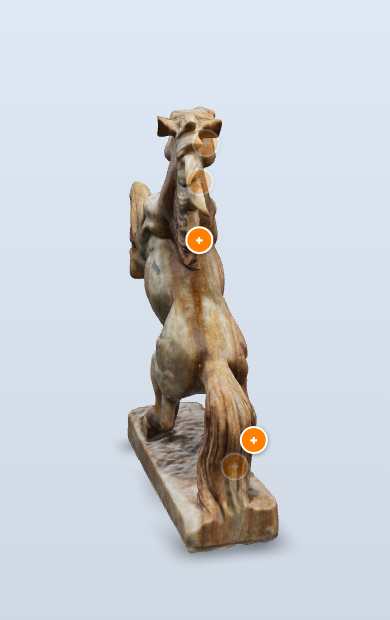
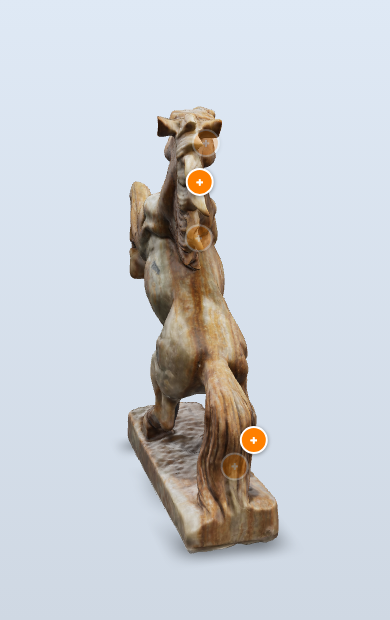
Perbaiki titik info yang tersembunyi agar tidak bisa diketuk, pilih arah normal dan pindahkan titik kaki supaya tidak lagi tampil saat tertutup badan patung, dan betulkan kamera yang tidak ikut pindah saat ganti ke model candi

Changed region(s): [[0.4615, 0.2452, 0.5538, 0.429]]

diff --git a/Module5/Source/ar_app/app.js b/Module5/Source/ar_app/app.js
@@ -93,6 +93,9 @@
     button.dataset.position = hotspot.position.join(" ");
     button.dataset.normal = hotspot.normal.join(" ");
     button.textContent = "+";
+    // ask <model-viewer> to mark this button with data-visible while its normal faces the camera;
+    // without it the button is only dimmed when hidden and can still be tapped (style.css)
+    button.dataset.visibilityAttribute = "visible";
     button.setAttribute("aria-label", hotspot.name_en);
 
     const label = document.createElement("div");
@@ -138,9 +141,14 @@
   modelToggle.addEventListener("click", () => {
     model = model === "horse" ? "temple" : "horse";
     modelToggle.textContent = `Model: ${model}`;
+    // model-viewer puts the camera back to the camera-orbit attribute when a new model loads,
+    // so the new model's camera is set once that load has finished
+    viewer.addEventListener("load", () => {
+      viewer.cameraOrbit = MODELS[model].orbit;
+      viewer.jumpCameraToGoal();
+    }, { once: true });
     viewer.src = MODELS[model].src;
     viewer.alt = MODELS[model].alt;
-    viewer.cameraOrbit = MODELS[model].orbit;
     hideInfo();
     quizScore = { correct: 0, attempts: 0 };
     loadHotspots();

diff --git a/Module5/Source/ar_app/style.css b/Module5/Source/ar_app/style.css
@@ -77,8 +77,9 @@ model-viewer {
   box-shadow: 0 2px 8px rgba(0, 0, 0, 0.25);
 }
 
-/* model-viewer hotspot slots: a small labelled disc, hidden gracefully when
-   occluded (model-viewer toggles the `data-visibility-attribute` target). */
+/* model-viewer hotspot slots: a small labelled disc. model-viewer only toggles
+   `data-visible` on a hotspot that asks for it with data-visibility-attribute="visible"
+   (app.js sets it); it decides from the hotspot's normal alone. */
 .hotspot {
   display: flex;
   align-items: center;
@@ -96,7 +97,8 @@ model-viewer {
   padding: 0;
 }
 
-.hotspot.hidden { display: none; }
+/* turned away from the camera: model-viewer dims it; it must not take taps either */
+.hotspot:not([data-visible]) { pointer-events: none; }
 
 .hotspot:focus { outline: 3px solid #ffd08a; }
 

diff --git a/Module5/Source/ar_app/occlusion.py b/Module5/Source/ar_app/occlusion.py
@@ -66,3 +66,75 @@ def is_visible(point, normal, camera, tris):
     t = np.einsum("ij,ij->i", e2, q) * inv
     hit = ok & (u >= 0) & (v >= 0) & (u + v <= 1) & (t > 1e-6) & (t < dist)
     return not bool(hit.any())
+
+
+# --- choosing better normals ---------------------------------------------------------------
+# <model-viewer> shows a hotspot whenever dot(normal, direction to camera) >= 0. The normal the
+# ray-cast placement gives is the face normal at the hit point, and on a curved part it can lean
+# towards a side from which the point is blocked (the raised foreleg leans towards the tail).
+# The normal only steers visibility, so it may be any direction that makes the dot test agree
+# with the real occlusion as often as possible. It is chosen on TUNE cameras that are disjoint
+# from the cameras the browser test uses (verify_ar_app.py --occlusion: polar 75 and 25 deg,
+# azimuth on multiples of 5 deg), so the browser test stays a fair check.
+
+TARGET = (0.0, 0.3086, 0.0)   # <model-viewer>'s automatic camera target and radius for kuda.glb,
+RADIUS = 1.572                # as reported by getCameraTarget() / getCameraOrbit()
+TUNE_POLAR_DEG = (40.0, 60.0, 80.0, 95.0)
+TUNE_AZIMUTH_DEG = np.arange(2.5, 360.0, 5.0)
+MAX_TILT_DEG = 75.0           # keep the chosen normal within this angle of the surface normal
+
+
+def tune_cameras():
+    return [camera_position(np.radians(t), np.radians(p), RADIUS, TARGET)
+            for p in TUNE_POLAR_DEG for t in TUNE_AZIMUTH_DEG]
+
+
+def _sphere(n=4000):
+    """n nearly even directions on the unit sphere (Fibonacci lattice), deterministic."""
+    i = np.arange(n) + 0.5
+    z = 1 - 2 * i / n
+    r = np.sqrt(1 - z * z)
+    phi = np.pi * (1 + 5 ** 0.5) * i
+    return np.stack([r * np.cos(phi), r * np.sin(phi), z], axis=1)
+
+
+def tune_normal(point, surface_normal, tris, cameras):
+    """The direction whose dot test best matches the real visibility over `cameras`.
+
+    Returns (normal, mismatches before, mismatches after, number of cameras)."""
+    point, surface_normal = np.asarray(point, float), np.asarray(surface_normal, float)
+    truth = np.array([is_visible(point, surface_normal, c, tris) for c in cameras])
+    dirs = np.array([c - point for c in cameras])
+    dirs /= np.linalg.norm(dirs, axis=1, keepdims=True)
+    cand = _sphere()
+    cand = cand[cand @ surface_normal >= np.cos(np.radians(MAX_TILT_DEG))]
+    cand = np.vstack([surface_normal, cand])  # the surface normal itself competes and wins ties
+    errors = ((cand @ dirs.T >= 0) != truth).sum(axis=1)
+    best = int(np.argmin(errors))
+    return cand[best], int(errors[0]), int(errors[best]), len(cameras)
+
+
+def tune_hotspot_file(path=os.path.join(HERE, "assets", "hotspots_kuda.json")):
+    """Rewrite the normals of a hotspot file in place; the face normal is kept as surface_normal."""
+    with open(path) as f:
+        data = json.load(f)
+    tris, cameras = load_mesh(), tune_cameras()
+    for h in data["hotspots"]:
+        surface = h.get("surface_normal", h["normal"])
+        normal, before, after, n = tune_normal(h["position"], surface, tris, cameras)
+        h["surface_normal"] = surface
+        h["normal"] = [round(float(c), 4) for c in normal]
+        tilt = np.degrees(np.arccos(np.clip(np.dot(normal, surface) / np.linalg.norm(surface), -1, 1)))
+        print(f"{h['id']:7s} mismatches on {n} tune cameras: {before:3d} -> {after:3d}, "
+              f"normal {h['normal']} ({tilt:.0f} deg from the surface normal)")
+    data["normals"] = ("chosen by occlusion.py --tune so model-viewer's normal test matches the real occlusion; "
+                       "surface_normal is the face normal where the placement ray hit")
+    with open(path, "w") as f:
+        json.dump(data, f, indent=2, ensure_ascii=False)
+        f.write("\n")
+
+
+if __name__ == "__main__":
+    import sys
+    if "--tune" in sys.argv[1:]:
+        tune_hotspot_file()

diff --git a/Module5/Source/ar_app/verify_ar_app.py b/Module5/Source/ar_app/verify_ar_app.py
@@ -179,6 +179,18 @@ def main():
         check(f"language toggle changes the panel text ('{title}' -> '{title_id}')", title != title_id)
 
         page.click("#info-close")
+        # from behind, every horse hotspot faces away: dimmed by model-viewer, and taps must not reach it
+        page.evaluate("""async () => { const v = document.querySelector('model-viewer');
+            v.interactionPrompt = 'none'; v.cameraOrbit = '180deg 75deg auto'; await v.updateComplete; v.jumpCameraToGoal(); }""")
+        page.wait_for_timeout(800)
+        dimmed = page.evaluate("[...document.querySelectorAll('.hotspot')].every(h => !h.hasAttribute('data-visible'))")
+        page.click("button[slot='hotspot-alas']", force=True)  # force: click there even though it is not tappable
+        page.wait_for_timeout(300)
+        check("from behind every hotspot is hidden and tapping one opens nothing",
+              dimmed and page.evaluate("document.getElementById('info-panel').hidden"))
+        page.evaluate("""async () => { const v = document.querySelector('model-viewer');
+            v.cameraOrbit = '0deg 80deg auto'; await v.updateComplete; v.jumpCameraToGoal(); }""")
+        page.wait_for_timeout(800)
         page.click("#quiz-toggle")
         page.wait_for_timeout(300)
         quiz_target = page.inner_text("#quiz-target")
@@ -192,6 +204,10 @@ def main():
         page.wait_for_function("document.querySelector('model-viewer').src.endsWith('assets/pusaka_temple.glb')"
                                " && document.querySelector('model-viewer').loaded"
                                " && document.querySelectorAll('.hotspot').length === 5", timeout=15000)
+        page.wait_for_timeout(1500)  # the temple's camera is set when its model has loaded
+        phi = page.evaluate("document.querySelector('model-viewer').getCameraOrbit().phi * 180 / Math.PI")
+        check(f"model switch also moves the camera to the temple's own view (polar {phi:.1f} deg, want 75)",
+              abs(phi - 75.0) < 0.5)
         page.click("button[slot='hotspot-stupa']")
         page.wait_for_timeout(300)
         check(f"model switch loads the temple with its own 5 hotspots ('{page.inner_text('#info-title')}')",

diff --git a/Module5/Source/tests.py b/Module5/Source/tests.py
@@ -385,6 +385,13 @@ def test_occlusion_truth():
     check(f"real mesh ({len(tris)} triangles): pedestal hotspot visible from the front, hidden from behind",
           float(occlusion.is_visible(alas["position"], alas["normal"], front, tris)
                 and not occlusion.is_visible(alas["position"], alas["normal"], back, tris)), 1.0, tol=0)
+    # the normals in hotspots_kuda.json are the ones occlusion.py --tune chooses (the file is not stale)
+    with open(os.path.join(sys_path, "assets", "hotspots_kuda.json")) as f:
+        spots = json.load(f)["hotspots"]
+    cams = occlusion.tune_cameras()
+    worst = max(float(np.abs(occlusion.tune_normal(h["position"], h["surface_normal"], tris, cams)[0]
+                             - np.array(h["normal"])).max()) for h in spots)
+    check("hotspot normals are the ones occlusion.py --tune picks (max abs diff)", worst, 0.0, tol=1e-4)
 
 
 def test_view_coverage_diagnose_and_fix():

diff --git a/Module5/docs/catatan/fase5-ar-app.md b/Module5/docs/catatan/fase5-ar-app.md
@@ -131,9 +131,9 @@ Dari 76 sudut × 5 hotspot = 380 keputusan, 11 tidak cocok dengan geometri, dan 
 | kepala | tidak ada | tidak ada |
 | ekor | tidak ada | tidak ada |
 
-![Kamera di 255 derajat: hotspot kaki tampil di tengah badan, padahal kakinya ada di sisi lain](../img/occlusion_kaki_255.png)
+![Kamera di 255 derajat: hotspot kaki tampil di tengah badan, padahal kakinya ada di sisi lain](../img/occlusion_kaki_255_sebelum.png)
 
-![Kamera di 70 derajat: hotspot surai tampil padahal tertutup leher](../img/occlusion_surai_70.png)
+![Kamera di 70 derajat: hotspot surai tampil padahal tertutup leher](../img/occlusion_surai_70_sebelum.png)
 
 ### Prediksi vs hasil
 
@@ -161,3 +161,63 @@ Dari 76 sudut × 5 hotspot = 380 keputusan, 11 tidak cocok dengan geometri, dan 
 `ar_app/occlusion.py` juga ikut dicek larangan import selain NumPy.
 
 Perbaikannya (hotspot redup yang masih bisa diketuk, dan normal hotspot kaki serta surai) saya kerjakan di commit berikutnya, terpisah dari hasil uji ini.
+
+## 6. Perbaikan occlusion hotspot
+
+Hasil uji di bagian 5 menunjukkan dua masalah: hotspot yang tersembunyi masih bisa diketuk, dan hotspot kaki serta surai tampil saat tertutup. Keduanya saya perbaiki di sini, lalu diukur ulang dengan alat uji yang sama.
+
+### (a) Hotspot tersembunyi tidak bisa diketuk lagi
+
+`app.js` sekarang memasang `data-visibility-attribute="visible"` pada setiap tombol hotspot. Dengan itu, `<model-viewer>` memasang atribut `data-visible` saat normal hotspot menghadap kamera, dan mencabutnya saat membelakangi. Di `style.css`, aturan lama `.hotspot.hidden { display: none; }` yang tidak pernah aktif saya ganti dengan `.hotspot:not([data-visible]) { pointer-events: none; }`. Hotspot yang tersembunyi tetap terlihat samar (redup dari `<model-viewer>`), tetapi ketukan diteruskan ke model. Pengguna masih bisa memutar model dari situ dan tidak membuka panel bagian yang ada di balik patung.
+
+Perbaikan ini memunculkan satu bug dari commit 12 milik saya sendiri. Setelah tombol Model ditekan, kamera candi (`35deg 75deg 1.2m`) tidak pernah dipakai, karena `<model-viewer>` mengembalikan kamera ke atribut `camera-orbit` halaman setiap kali model baru dimuat. Di polar 80 derajat, normal hotspot stupa (lurus ke atas) sedikit membelakangi kamera. Selama hotspot tersembunyi masih bisa diketuk, bug ini tidak terlihat. Sekarang `app.js` memasang kamera model baru setelah event `load`.
+
+`verify_ar_app.py` mendapat dua check baru (total **14 ok**):
+- **dari belakang**, semua hotspot kuda tersembunyi, dan mengetuk salah satunya tidak membuka panel apa pun. Check ini gagal kalau baris `data-visibility-attribute` dibuang dari `app.js`;
+- **tombol Model juga memindah kamera** ke posisi candi (polar 75 derajat). Check ini gagal dengan `app.js` versi commit 12: polarnya tetap 80 derajat.
+
+### (b) Normal yang dipilih untuk visibilitas, bukan sekadar normal permukaan
+
+Bagi `<model-viewer>`, normal hotspot hanya dipakai untuk satu hal: menentukan dari arah mana hotspot dianggap terlihat. Jadi normal itu boleh dipilih supaya tes dot `<model-viewer>` sesuai dengan occlusion yang sebenarnya.
+
+`occlusion.py --tune` melakukan itu untuk setiap hotspot:
+1. Mencoba sekitar 4000 arah yang tersebar rata di bola, dibatasi paling jauh 75 derajat dari normal permukaan.
+2. Untuk setiap arah, menghitung berapa kali tes dot salah dibanding kebenaran ray, pada **288 kamera latih**: polar 40, 60, 80, dan 95 derajat, azimuth 2,5; 7,5; 12,5; ... derajat.
+3. Memilih arah dengan kesalahan paling sedikit. Kalau seri, normal permukaan yang dipakai.
+
+Kamera latih itu sengaja tidak ada yang sama dengan kamera uji browser (polar 75 dan 25 derajat, azimuth kelipatan 5 derajat), supaya uji browser tetap jujur dan normalnya tidak "menghafal" sudut uji. Normal permukaan asli tetap disimpan sebagai `surface_normal` di `hotspots_kuda.json`.
+
+Untuk kaki, satu arah normal tidak cukup: kesalahannya hanya turun dari 20 menjadi 17 di kamera latih. Titik di sisi dalam kaki yang terangkat memang terlihat dari depan, tetapi terhalang badan dari sisi ekor, dan pola seperti itu tidak bisa dibagi dengan satu bidang. Karena itu saya mencari **titik lain di kaki yang sama**. Saya mencoba 109 titik bidik di daerah kaki terangkat, ray dari depan seperti `scan_to_glb.py`. Titik di sisi luar kaki, bidikan `(0,94; 0,62)`, hanya 1,8 cm dari titik lama, punya **0 kesalahan** di semua kamera latih, bahkan dengan normal permukaannya sendiri. Bidikan di `tools/kuda_hotspot_text.json` saya ganti ke titik itu, `scan_to_glb.py` dijalankan ulang (`kuda.glb` tetap identik byte per byte, hanya hotspot yang berubah), lalu `occlusion.py --tune`.
+
+| Hotspot | Kesalahan di 288 kamera latih: normal permukaan → normal terpilih | Normal bergeser |
+|---|---|---|
+| alas | 5 → 1 | 7 derajat |
+| surai | 24 → 10 | 30 derajat |
+| kaki (titik baru) | 0 → 0 | 0 derajat |
+| kepala | 0 → 0 | 0 derajat |
+| ekor | 0 → 0 | 0 derajat |
+
+### Hasil di uji browser (kamera uji yang tidak dipakai memilih)
+
+`verify_ar_app.py --occlusion`, dijalankan dua kali dengan hasil identik:
+
+| | Sebelum (commit 14) | Sesudah |
+|---|---|---|
+| keputusan yang tidak cocok dengan geometri, dari 380 | 11 | **1** |
+| tampil padahal tertutup bagian lain | 7 (kaki 4; surai 3: 70 derajat dan dua dari atas) | **0** |
+| hampir menyamping | 4 | 1 (surai di 255 derajat, dot +0,08) |
+| disembunyikan padahal terlihat | 0 | 0 |
+| hotspot redup bisa diketuk | ya | **tidak** |
+
+![Sesudah: kamera di 255 derajat, hotspot kaki ikut redup](../img/occlusion_kaki_255.png)
+
+`tests.py` (**73 ok**) sekarang juga mengecek bahwa normal di `hotspots_kuda.json` memang hasil `occlusion.py --tune`. Kalau model atau titik bidik diubah tanpa menjalankan ulang langkah itu, test gagal.
+
+**Urutan membuat ulang aset kuda:**
+1. `photogrammetry.swift` (dari foto ke scan);
+2. `scan_to_glb.py` di Blender (scan ke `kuda.glb` dan posisi hotspot);
+3. `occlusion.py --tune` (normal hotspot).
+
+**Keterbatasan:**
+- Normal terpilih bergantung pada posisi kamera otomatis `<model-viewer>` (target dan jarak yang dilaporkannya). Di AR sungguhan kamera bisa berada di mana saja, misalnya jauh lebih dekat, jadi hasilnya mungkin sedikit berbeda.
+- Surai masih punya 10 kesalahan di kamera latih. Di kamera uji browser hanya tersisa satu kasus hampir menyamping, tetapi di sudut lain kesalahan itu tetap bisa muncul.

diff --git a/Module5/Source/README.md b/Module5/Source/README.md
@@ -154,6 +154,7 @@ from the evidence first.
 | `ar_app/verify_ar_app.py` on the starter app, served on `127.0.0.1:8743` | **ALL CHECKS PASSED (10 ok)** | 2026-11-02 | Playwright 1.64.1, Chrome Headless Shell 156 |
 | `python tests.py` after the AR model | **ALL CHECKS PASSED (68 ok)**: `kuda.glb` is 46.0 cm long (my measure), 62.8 cm tall (measured 63), 14.7 cm deep (measured 15), stands on the floor, 4.41 MB; every hotspot within 1.7 mm of the mesh; every asset has a full provenance line | 2026-11-03 | same |
 | `ar_app/verify_ar_app.py` on my version | **ALL CHECKS PASSED (12 ok)**: horse by default, 5 hotspots, panel and language, quiz, switch to the temple with its own 5 hotspots, no JS error | 2026-11-03 | Playwright 1.64.1, Chrome Headless Shell 156 |
+| occlusion fixes | `verify_ar_app.py` **14 ok** (a hidden hotspot can no longer be tapped; the model switch also moves the camera); `--occlusion`: 1 of 380 decisions off (edge-on), 0 "shown while blocked"; `tests.py` 73 ok | 2026-11-03 | same |
 | `ar_app/verify_ar_app.py --occlusion` | 76 camera angles x 5 hotspots: 11 of 380 decisions disagree with the geometry, all "shown while blocked" (kaki 255-270 deg, surai 70 deg, plus edge-on cases); <model-viewer> 3.5.0 decides from the normal only, and a dimmed hotspot can still be tapped; two runs identical | 2026-11-03 | same |
 | `ar_app/tools/scan_to_glb.py` | same `kuda.glb` and `hotspots_kuda.json`, byte for byte, when rerun on the same scan | 2026-11-03 | Blender 5.2.2 LTS |
 | `python tests.py` after Fase 3 | **ALL CHECKS PASSED (57 ok)**: one pixel convention, every touched voxel's gradient vs finite differences also at alpha almost 0, almost 1 and exactly 1, compositing, `poses.json` within 1e-9, `load_ppm`, NumPy-only imports; each new check fails when the code is broken on purpose (`../docs/catatan/fase3-renderer-gradien.md`) | 2026-11-03 | same |
